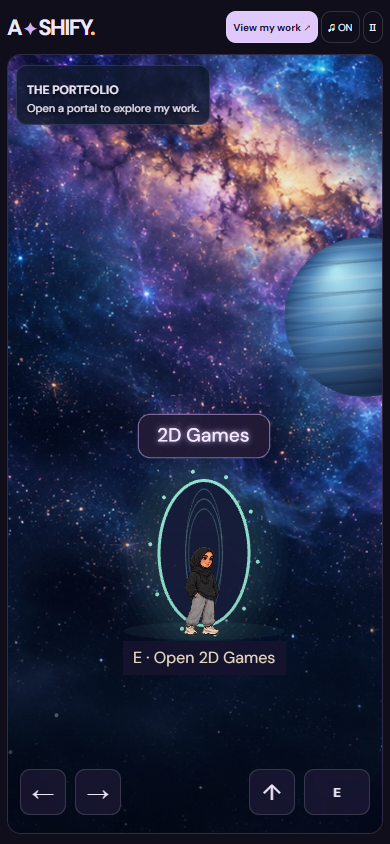
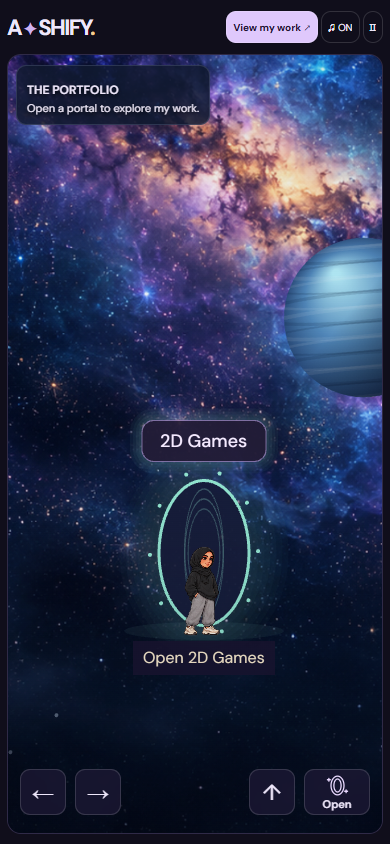
changes

diff --git a/src/game/Gateway.ts b/src/game/Gateway.ts
@@ -377,12 +377,20 @@ export class Gateway extends Phaser.Scene {
     });
     const label = this.badge(x, y - 112, title, 18).setName('portal-label');
     const glow = this.add.ellipse(x, y, 145, 190, color, 0).setDepth(2);
+    const labelGlow = this.add.graphics().setDepth(label.depth - 0.2);
+    const bounds = label.getBounds();
+    for (let spread = 12; spread >= 3; spread -= 3) {
+      labelGlow.fillStyle(color, 0.06).fillRoundedRect(bounds.x - spread, bounds.y - spread, bounds.width + spread * 2, bounds.height + spread * 2, 12 + spread);
+    }
+    let proximity = 0;
     const highlight = () => {
       const near = Math.max(0, 1 - Math.abs(this.player.x - x) / 230);
+      proximity += (near - proximity) * (1 - Math.exp(-this.game.loop.delta / 100));
       const pulse = 0.5 + 0.5 * Math.sin(this.time.now * 0.004);
-      label.setScale(1 + near * 0.06).setY(y - 112 - near * (4 + pulse * 3));
-      label.setShadow(0, 0, '#e3c6ff', near * (8 + pulse * 8), true, true);
-      glow.setAlpha(near * (0.07 + pulse * 0.06));
+      // Keep glyphs on fixed pixels: animate the surrounding light, not the text texture.
+      label.setScale(1).setY(y - 112);
+      glow.setAlpha(proximity * (0.07 + pulse * 0.06));
+      labelGlow.setAlpha(proximity * (0.65 + pulse * 0.35));
     };
     this.events.on('update', highlight);
     label.once('destroy', () => this.events.off('update', highlight));

diff --git a/tests/game.spec.ts b/tests/game.spec.ts
@@ -344,7 +344,7 @@ test('portal labels highlight nearby and interaction guide stays visible', async
   expect(await page.evaluate(() => {
     const s = (window as any).__ashify.scene.getScene('Gateway');
     return s.children.getByName('portal-label').scaleX;
-  })).toBeGreaterThan(1.04);
+  })).toBe(1);
   await page.screenshot({path: 'design/portal-labels.png'});
   await page.setViewportSize({width:390,height:844});
   await page.waitForTimeout(500);
@@ -360,7 +360,7 @@ test('action icon follows nearby hobbies and portals', async ({ page }) => {
     await expect(page.locator('.action-icon')).toHaveAttribute('data-action', action);
   }
   await page.getByRole('button',{name:'Yoga',exact:true}).click();
-  await expect(page.locator('.action-icon')).toHaveAttribute('data-action','Yoga');
+  await expect(page.locator('.action-word')).toHaveText('HOLD');
   await page.getByRole('button',{name:'Leave activity'}).click();
   await page.getByRole('button',{name:'View my work'}).click();
   await page.waitForTimeout(800);
@@ -368,3 +368,4 @@ test('action icon follows nearby hobbies and portals', async ({ page }) => {
   await expect(page.locator('.action-icon')).toHaveAttribute('data-action','Portal');
   await page.screenshot({path:'design/context-action-icons.png'});
 });
+

diff --git a/src/App.tsx b/src/App.tsx
@@ -620,7 +620,11 @@ export default function App() {
                 onPointerCancel={() => (touch[key] = false)}
                 onLostPointerCapture={() => (touch[key] = false)}
               >
-                {i === 3 ? <ActionIcon action={miniActive ? hobbyName : nearbyAction} /> : ['←', '→', '↑'][i]}
+                {i === 3 ? (
+                  miniActive && ['Yoga', 'Tennis', 'Padel'].includes(hobbyName)
+                    ? <span className="action-word">{hobbyName === 'Yoga' ? 'HOLD' : 'HIT'}</span>
+                    : <span className="action-content"><ActionIcon action={miniActive ? hobbyName : nearbyAction} />{!miniActive && nearbyAction === 'Portal' && <span className="action-caption">Open</span>}</span>
+                ) : ['←', '→', '↑'][i]}
               </button>
             ))}
           </div>

diff --git a/src/styles/global.css b/src/styles/global.css
@@ -1873,3 +1873,7 @@ h1 {
 .action-icon { width: 28px; height: 28px; display: block; margin: auto; color: #ead9ff; }
 .touch-controls button[aria-label='interact'] { display: grid; place-items: center; }
 .touch-controls button[aria-label='interact']:active .action-icon { color: #ffe5a0; }
+.action-content { display: flex; flex-direction: column; align-items: center; justify-content: center; gap: 2px; }
+.action-content:has(.action-caption) .action-icon { width: 23px; height: 23px; }
+.action-caption { font-size: 11px; line-height: 1; font-weight: 600; letter-spacing: 0; }
+.action-word { font-size: 13px; line-height: 1; font-weight: 700; letter-spacing: .5px; }

diff --git a/src/game/systems/Challenges.ts b/src/game/systems/Challenges.ts
@@ -101,11 +101,11 @@ export class Challenges {
           bridge.emit('overlay', 'final');
         }
       }
-      return s.world < 1 ? 'E · Continue — no tasks required' : 'E · Meet the creator';
+      return s.world < 1 ? 'Continue' : 'Open Meet Ash';
     }
     if (station) {
       if (edge) station.action();
-      return 'E · ' + station.title;
+      return s.world === 1 ? station.title : 'E · ' + station.title;
     }
     return 'Walk right → · Click an activity to try it';
   }
